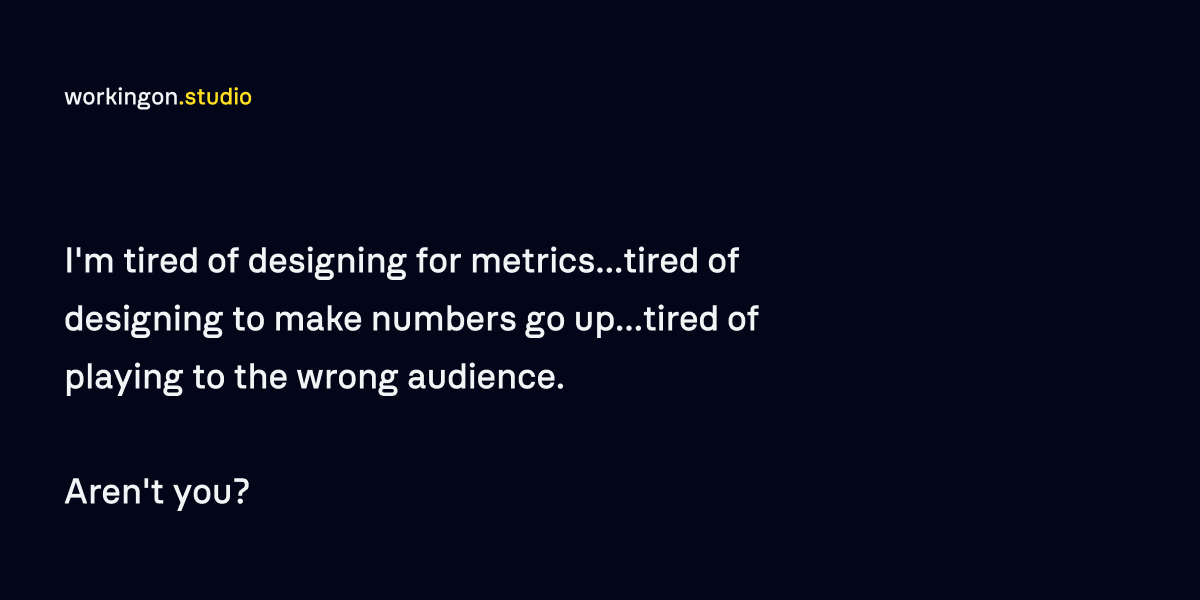
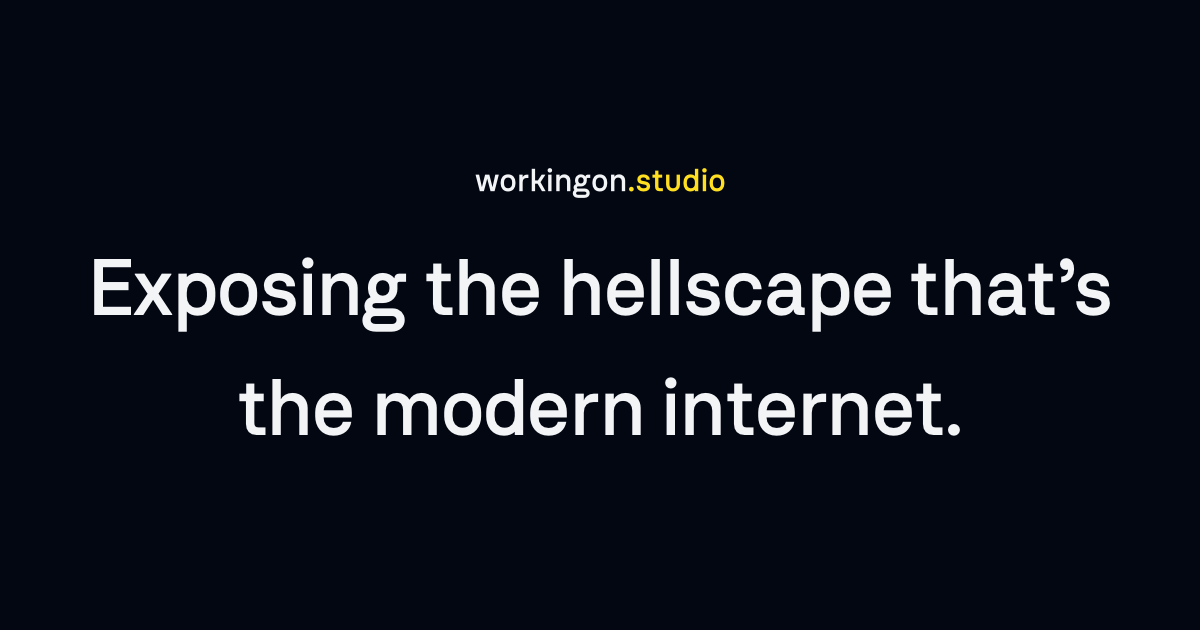
Adding better OG images. Updating titles, and descriptions. Also updating homepage header.

diff --git a/src/components/Home.svelte b/src/components/Home.svelte
@@ -8,7 +8,7 @@
 </script>
 
 <PageHeader>
-  <h1>Holding a social mirror to the hellscape that is the modern internet.</h1>
+  <h1>Exposing the hellscape that’s the modern internet.</h1>
   <section class="flex max-w-xl flex-col gap-12">
     <p>
       This studio has existed for {daysSince} days and shipped 5 projects. With 3 more in the dry dock waiting to be deployed.
